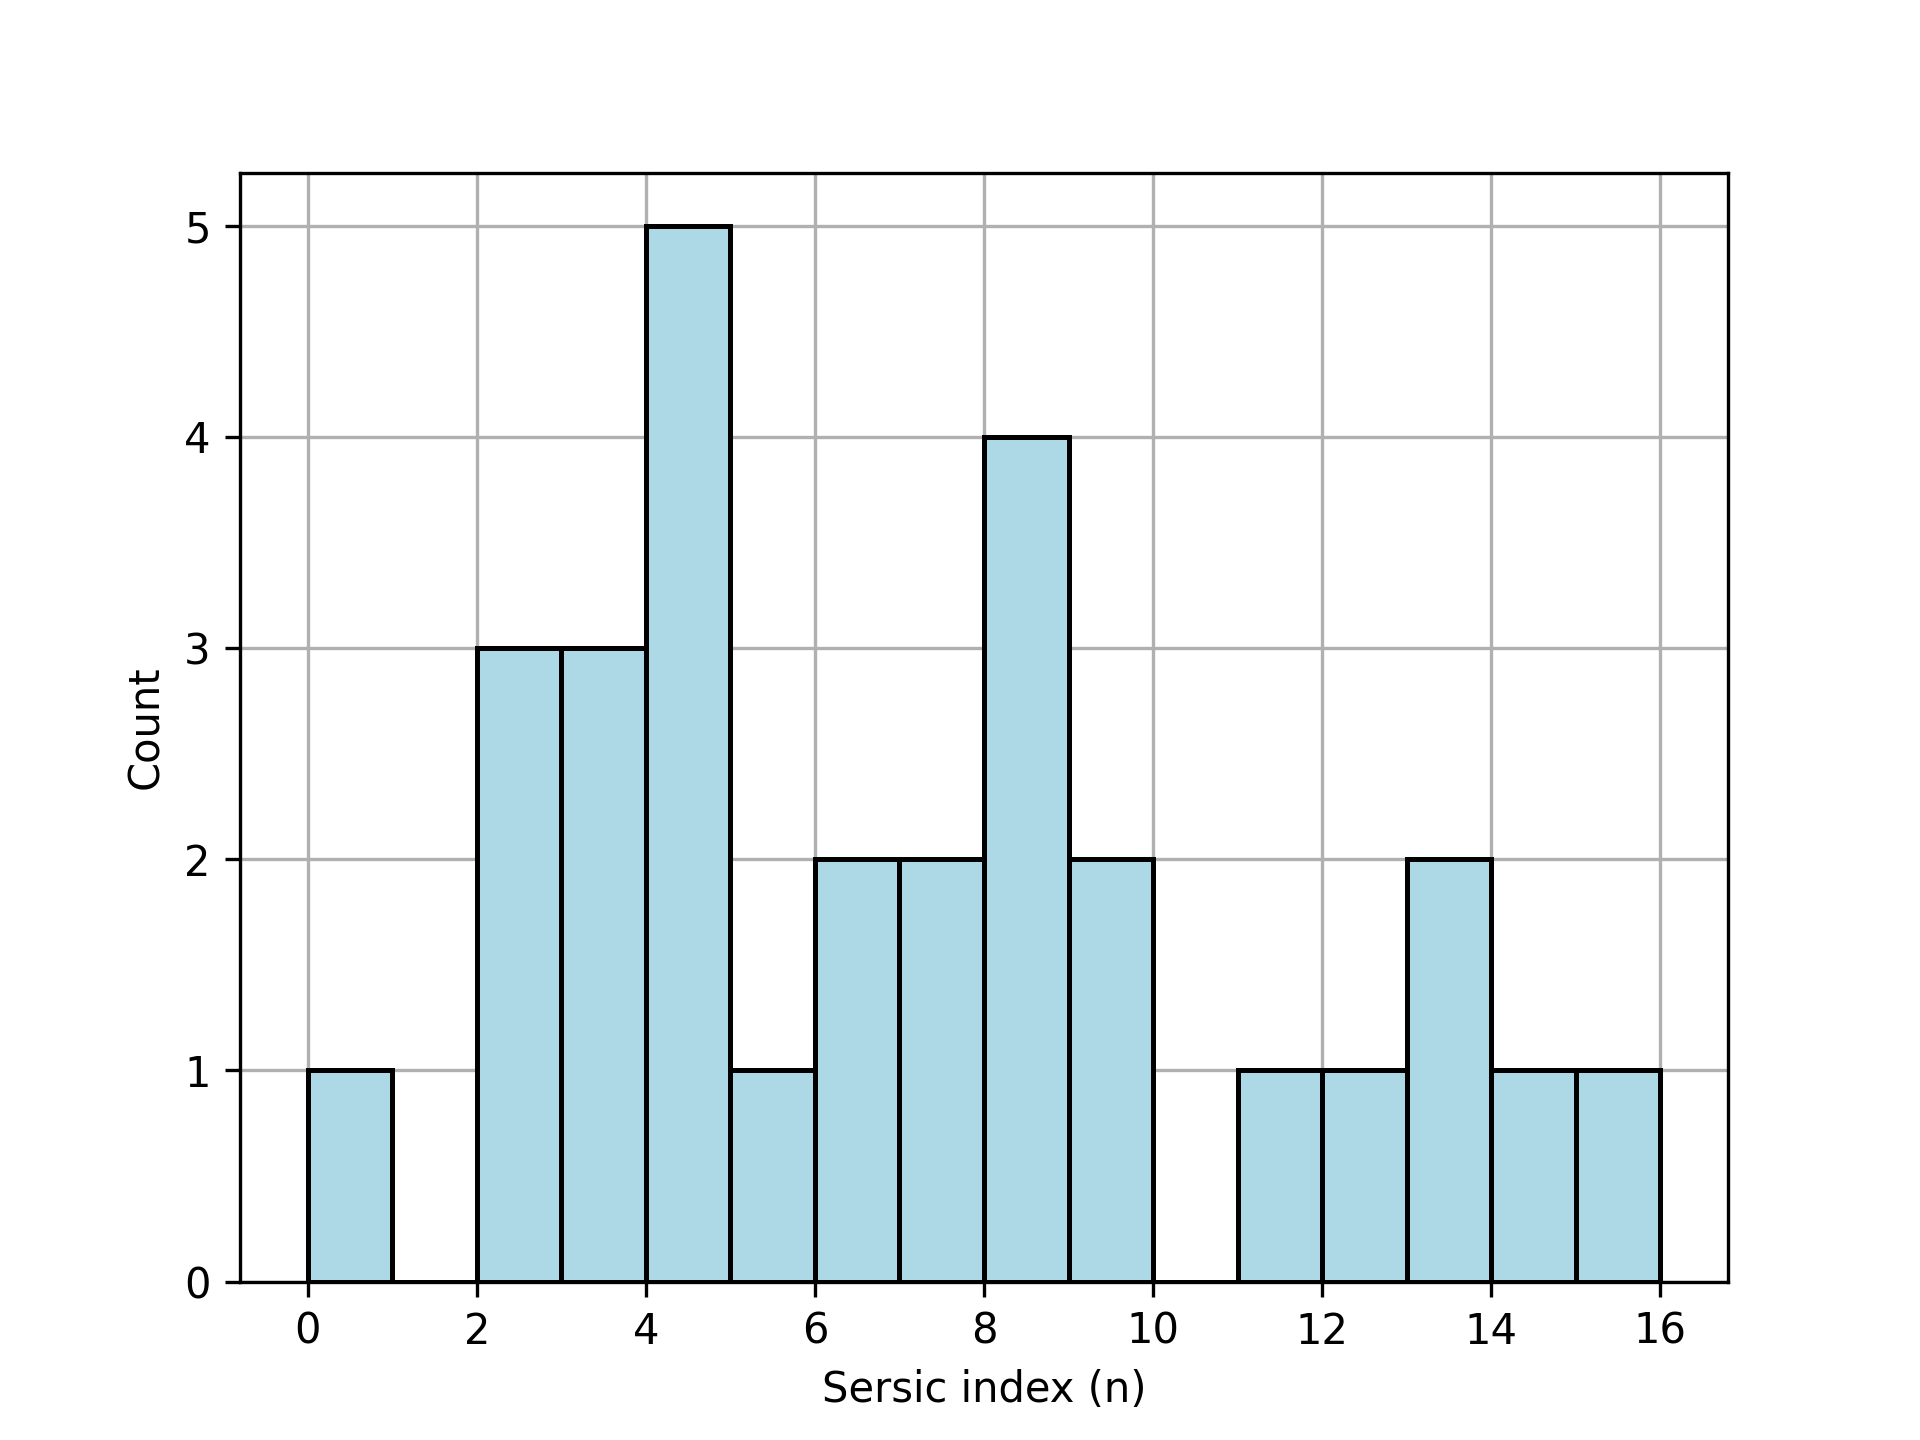
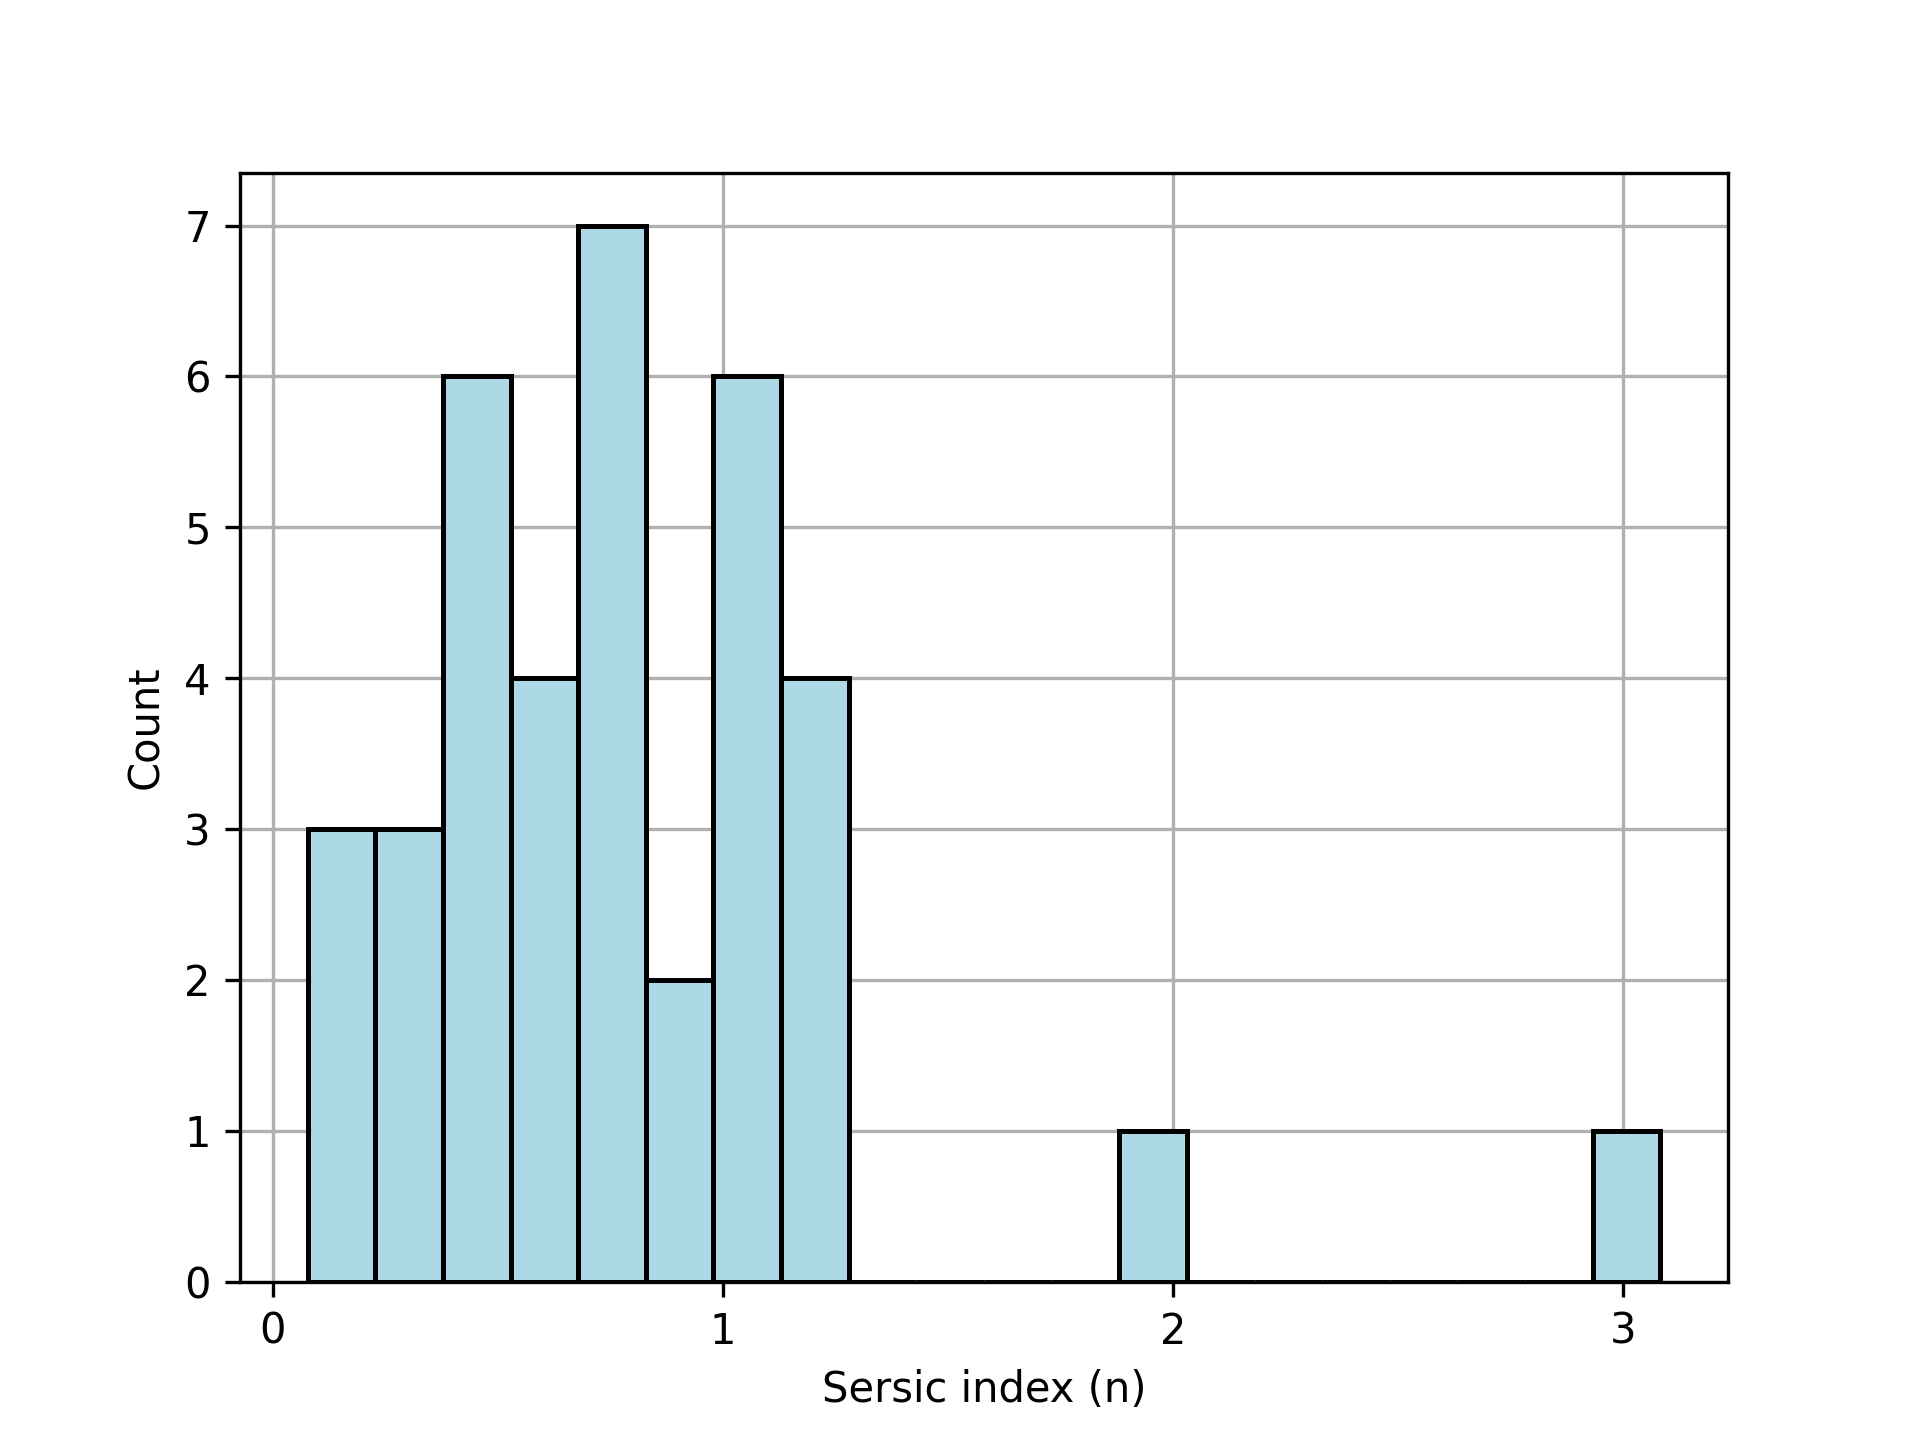
Fixes use of area for Sersic indices

diff --git a/profile.py b/profile.py
@@ -1,3 +1,6 @@
+"""
+Contains functions for finding the intensity at a range of radii and the Sersic index of an object
+"""
 import numpy as np
 import matplotlib.pyplot as plt
 from scipy.optimize import curve_fit
@@ -9,15 +12,19 @@ def int_radius(data, cent, val_min):
     """
     val = data[cent]
     rad = 0
+    #finding max radius for calculating intensity
     while val >= val_min:
+        #need to make sure we don't include multiple objects
         if rad >= 7:
             break
         val = data[cent[0], cent[1]+rad]
         rad += 1
     intensity = []
+    #find intensity within circle of each radius
     for r in range(1, rad+1):
-        flux, _ = circ_apt_flux(data, cent, r*2)
-        I_r = flux/(np.pi*(r**2))
+        flux, N = circ_apt_flux(data, cent, r*2)
+        print(N)
+        I_r = flux/N
         intensity.append(I_r)
     return np.array(intensity)
 
@@ -33,6 +40,7 @@ def sersic_index(intensity):
     """
     radius = np.array(range(0, len(intensity)))
     I_0 = intensity[0]
+    #lambda function to make I_0 a fixed value as we already know it
     popt, pcov = curve_fit(lambda radius, k, n: sersic(radius, I_0, k, n), radius, np.log(intensity), p0=[0.5, 5])
     n = popt[1]
     k = popt[0]

diff --git a/profile_test.py b/profile_test.py
@@ -1,3 +1,6 @@
+"""
+Calculates the Sersic index for every point identified
+"""
 from profile import int_radius, sersic_index
 import matplotlib.pyplot as plt
 import numpy as np
@@ -18,22 +21,19 @@ points = np.genfromtxt('points.csv', delimiter=',')
 
 sersic_indices = []
 
-num = 1
-
+#loop through each point and fit to find sersic index
 for point in points:
-    print(num)
     cent = (int(point[0]), int(point[1]))
-    print(cent)
+    #check not too close to edge so excluding noise
     if cent[0] >= len(data[1])-edge_noise or cent[0] <= edge_noise or cent[1] >= len(data[0])-edge_noise or cent[1] <= edge_noise:
         sersic_indices.append(np.NaN)
     else:
         intensity = int_radius(data, cent, val_min)
+        #radius must be >= 3 to give enough points to plot
         if len(intensity) <= 3:
             sersic_indices.append(np.NaN)
         else:
-            print(intensity)
             n, k = sersic_index(intensity)
             sersic_indices.append(n)
-    num += 1
 
 np.savetxt('sersic_indices.csv', np.array(sersic_indices), delimiter=',')

diff --git a/profile_hist.py b/profile_hist.py
@@ -10,32 +10,17 @@ hdulist.close()
 
 data = data[5:, :]
 
+#set params
 noise_mean = 3419
 noise_std = 12
 val_min = noise_mean + 4 * noise_std
 
 sers = np.loadtxt("sersic_indices.csv", delimiter=',')
 sers = sers[sers <= 20]
-sers = sers[sers > 0]
-"""
-coord = (823, 91)
 
-intensity = int_radius(data, coord, val_min)
-n, k = sersic_index(intensity)
-print(n)
-print(k)
-I_0 = intensity[0]
-
-radius = np.array(range(1, len(intensity)))
-plt.figure(2)
-plt.plot(np.log(radius), np.log(intensity[1:]), 'x')
-pts = np.linspace(min(radius), max(radius), 100)
-plt.plot(np.log(pts), sersic(pts, I_0, k,  n))
-plt.xlabel("ln(R)")
-plt.ylabel("ln(I)")
-"""
+#Histogram of sersic indices for all objects possible to calc for
 ax = plt.figure(1).gca()
-plt.hist(sers[~np.isnan(sers)], bins=range(0, int(max(sers))), edgecolor='black', linewidth=1.2, color='lightblue')
+plt.hist(sers[~np.isnan(sers)], bins=20, edgecolor='black', linewidth=1.2, color='lightblue')
 plt.ylabel("Count")
 plt.xlabel("Sersic index (n)")
 ax.xaxis.set_major_locator(MaxNLocator(integer=True))

diff --git a/photometry.py b/photometry.py
@@ -75,7 +75,7 @@ def circ_apt_flux(data_set,centre, apt_size):
     apt_mask=circ_mask(data_set, centre, apt_size*0.5)
     masked_data = np.ma.array(data_set.tolist(), mask=apt_mask) #masks data to a circular aperture about the max pixel
     flux = masked_data.sum()
-    N=np.count_nonzero(masked_data) - np.sum(apt_mask)
+    N=len(data_set)*len(data_set[0]) - np.sum(apt_mask)
     return flux, N
 
 
